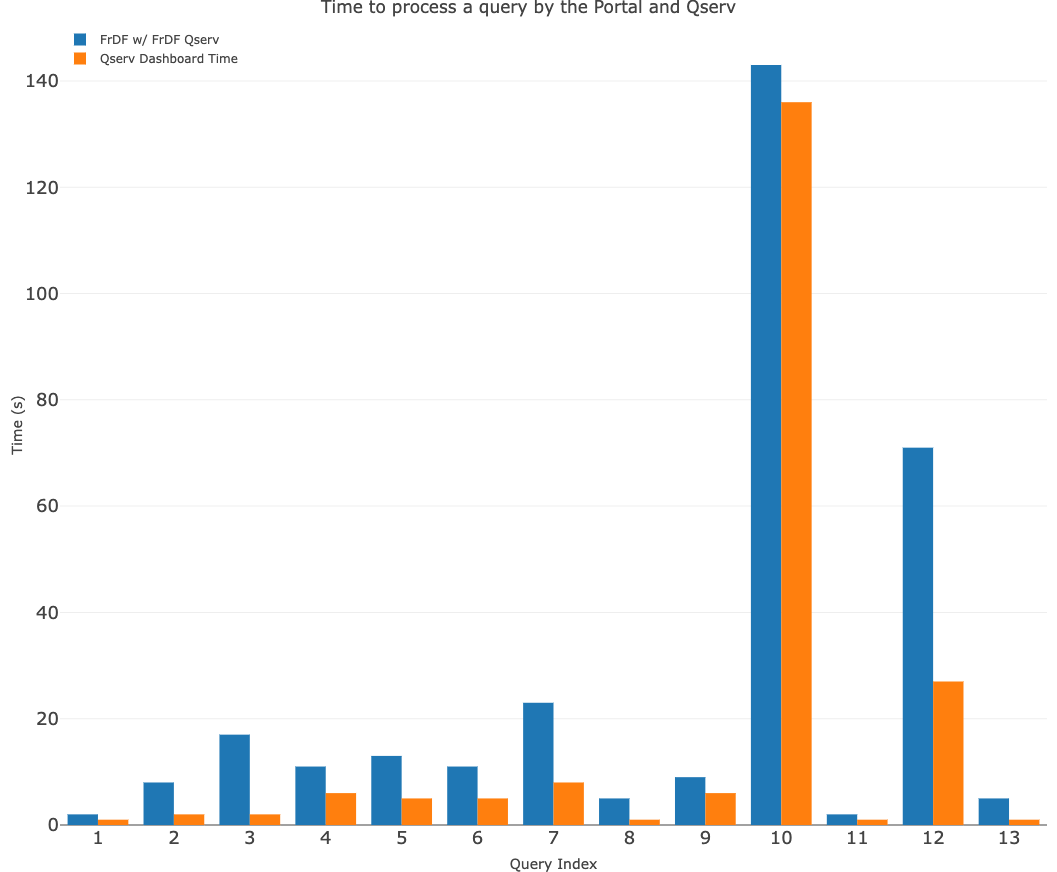
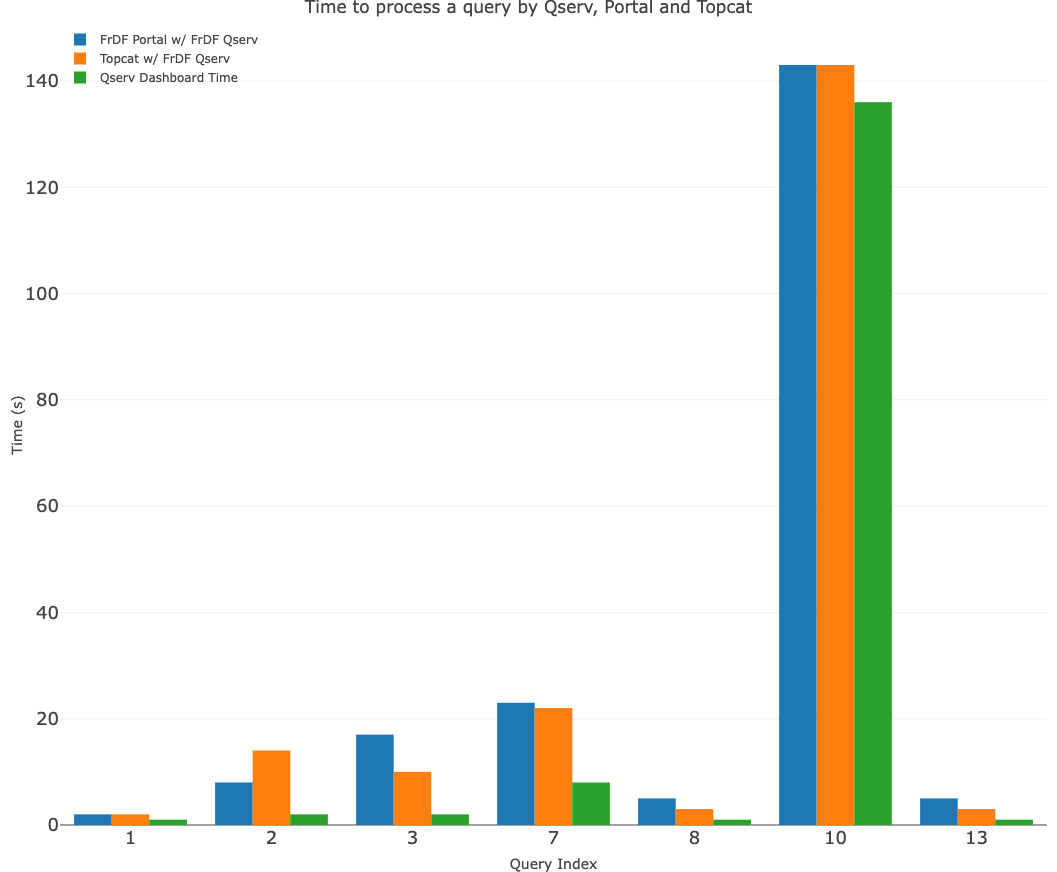
add conclusions and update images

Changed region(s): [[0.0624, 0.0619, 0.9991, 0.9908], [0.281, 0.0, 0.7181, 0.031], [0.0624, 0.031, 0.2498, 0.0929]]

diff --git a/index.md b/index.md
@@ -195,17 +195,29 @@ Results for the two FrDF configurations are confirmed also using TAP service for
 
 ADQL Queries via Topcat using TAP service provided by FrDF RSP configured with FrDF and UKDF Qserv backend.
 ```
-
+The time needed to process a query is almost the same whether the RSP backend is set to point to the FrDF Qserv instance or the UKDF Qserv instance.
 
 
 ### Queries processing 
 
-We noted, however, an impact not due to the Qserv backend but probably due to the Portal's processing of results, affecting the time necessary to display them: comparing the query time as measured at the level of Qserv and the time measured at the level of the Portal, we sometimes see a noticeable discrepancy, as shown in the next figure.
+We noted, however, an impact not due to the Qserv backend but probably due to the 'post-processing' of results by the Portal (and Topcat), affecting the time necessary to display them. Comparing the query time as measured at the level of Qserv and the time measured at the level of the Portal, we sometimes see a noticeable discrepancy, as shown in the next figure.
 
 ```{figure} ./images/qserv_vs_portal.png
 
 Time to process a query at the level of Qserv (as reported by the Qserv dashboard) and at the level of the Portal.
 ```
+
+Topcat is also affected by this 'post-processing' issue but seems a little less impacted than Portal.
+
+## Conclusions
+
+The scope of the test was checking the impact on performance for our RSP (FrDF RSP) when a remote Qserv instance (UKDF) is used as the backend for the TAP service. 
+The first preliminary test seems to exclude a large impact on performance due to, e.g., network latency, load on Qserv, etc. However, we cannot exclude an impact on this aspect when the load on the UKDF Qserv increases. 
+The performance is in line using Portal and Topcat TAP services, but we noted a delay in results showing, probably due to 'post-processing' steps needed by Portal and Topcat to organize the retrieved catalogs.
+
+Further tests are needed to verify these results with a set of more articulated and 'science representative' queries, but for the moment we can confirm the possibility of using a remote Qserv instance as an RSP backend.
+
+
 [^1]: https://dmtn-264.lsst.io/
 [^2]: https://dmtn-243.lsst.io/
 [^3]: https://www.star.bris.ac.uk/~mbt/topcat/
